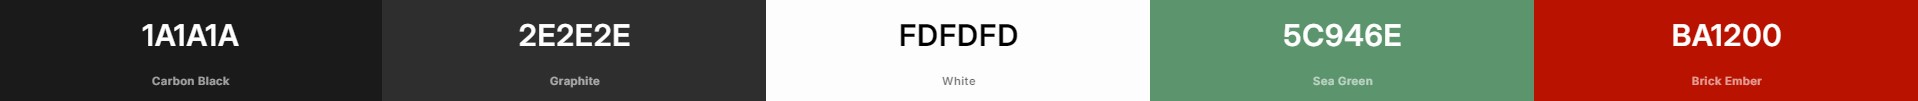
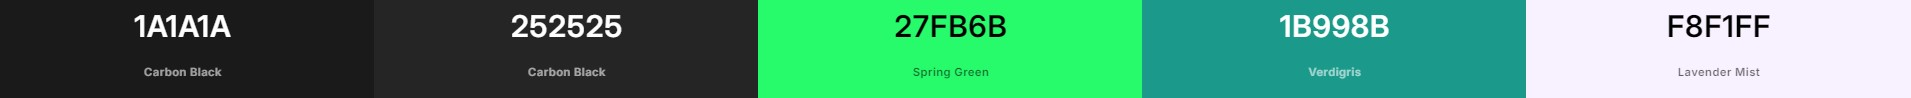
changed color scheme, added styling to navbar

diff --git a/Johnny_LLerena_Portfolio/src/navigation/Navbar.jsx b/Johnny_LLerena_Portfolio/src/navigation/Navbar.jsx
@@ -13,7 +13,7 @@ function SideNav() {
           src={Logo} 
           alt="logo"
         />
-        <p className="text-green-500"><strong>Johnny Llerena</strong></p>
+        <p className="text-[#1b998b]"><strong>Johnny Llerena</strong></p>
       </div>
     );
   }
@@ -24,7 +24,7 @@ function SideNav() {
             place-content-center 
             text-2xl font-bold
             p-2 border-y-3 border-[#2d2d2d]
-            hover:bg-[#2d2d2d]
+            hover:bg-[#2d2d2d] hover:text-[#1b998b]
             " 
             onClick={() => window.location.href = href}>
             <span>{text}</span>
